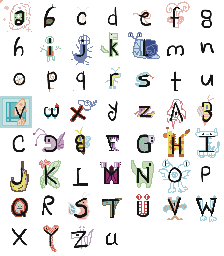
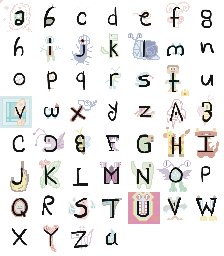
Prevent case-insensitive duplicate letters on same tile at board creation

diff --git a/SpinNidIndex.html b/SpinNidIndex.html
@@ -842,7 +842,7 @@ function makeTileDefs(count) {
     if (i < vowelPool.length) l.push(vowelPool[i]);
     while (l.length < 4) {
       const pick = AM_KEYS[Math.floor(Math.random() * AM_KEYS.length)];
-      if (!l.includes(pick)) l.push(pick);
+      if (!l.some(x => x.toLowerCase() === pick.toLowerCase())) l.push(pick);
     }
     // Shuffle so the vowel isn't always in position 0
     l.sort(() => Math.random() - 0.5);
@@ -855,7 +855,7 @@ function makeSingleTileDef() {
   const l = [];
   while (l.length < 4) {
     const pick = AM_KEYS[Math.floor(Math.random() * AM_KEYS.length)];
-    if (!l.includes(pick)) l.push(pick);
+    if (!l.some(x => x.toLowerCase() === pick.toLowerCase())) l.push(pick);
   }
   return { l, c: TILE_COLORS[Math.floor(Math.random() * TILE_COLORS.length)] };
 }